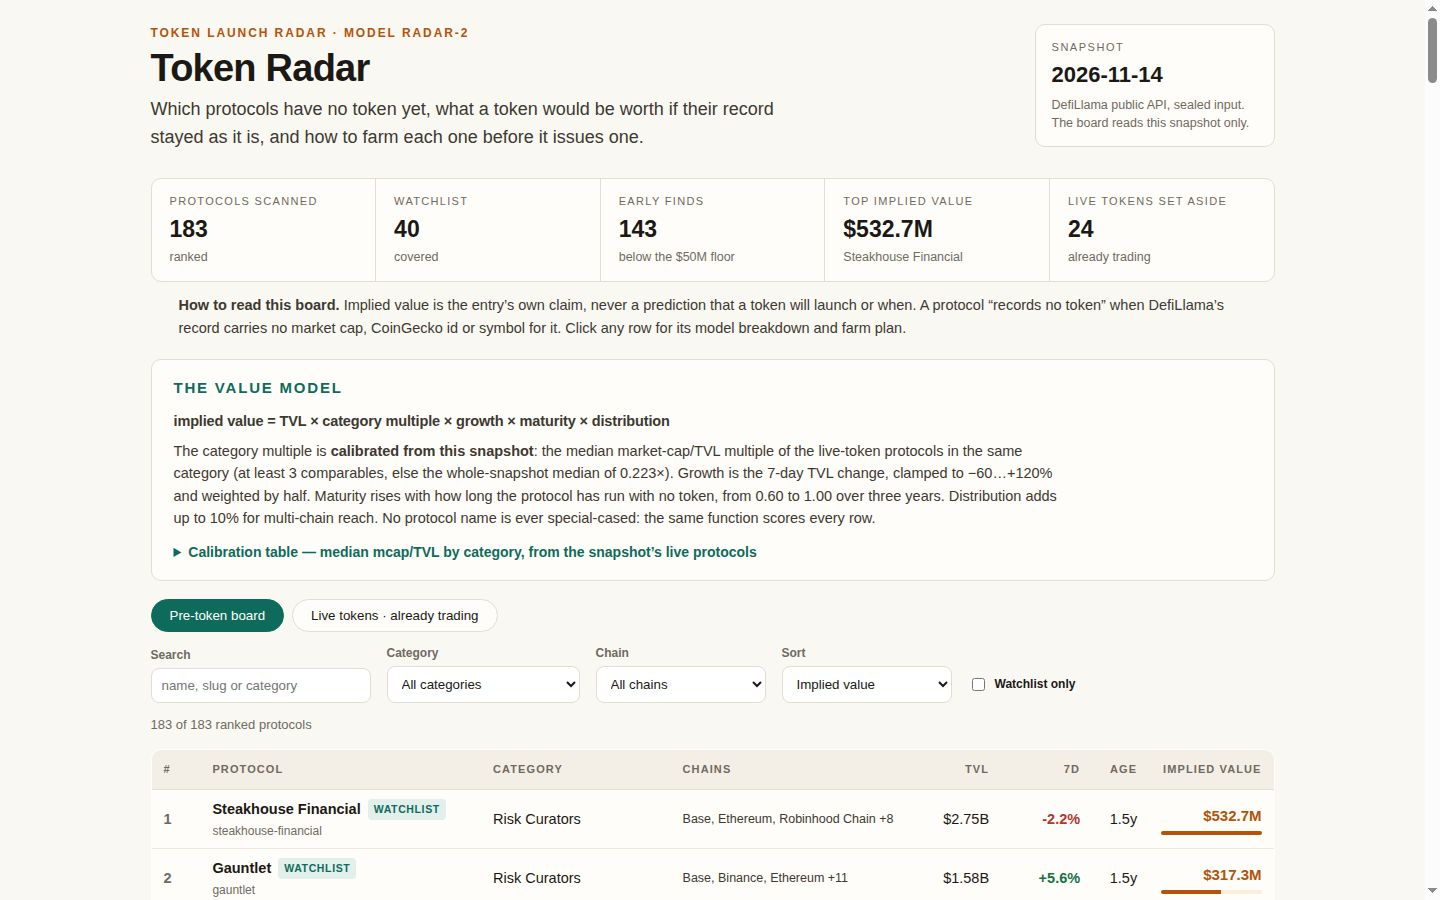
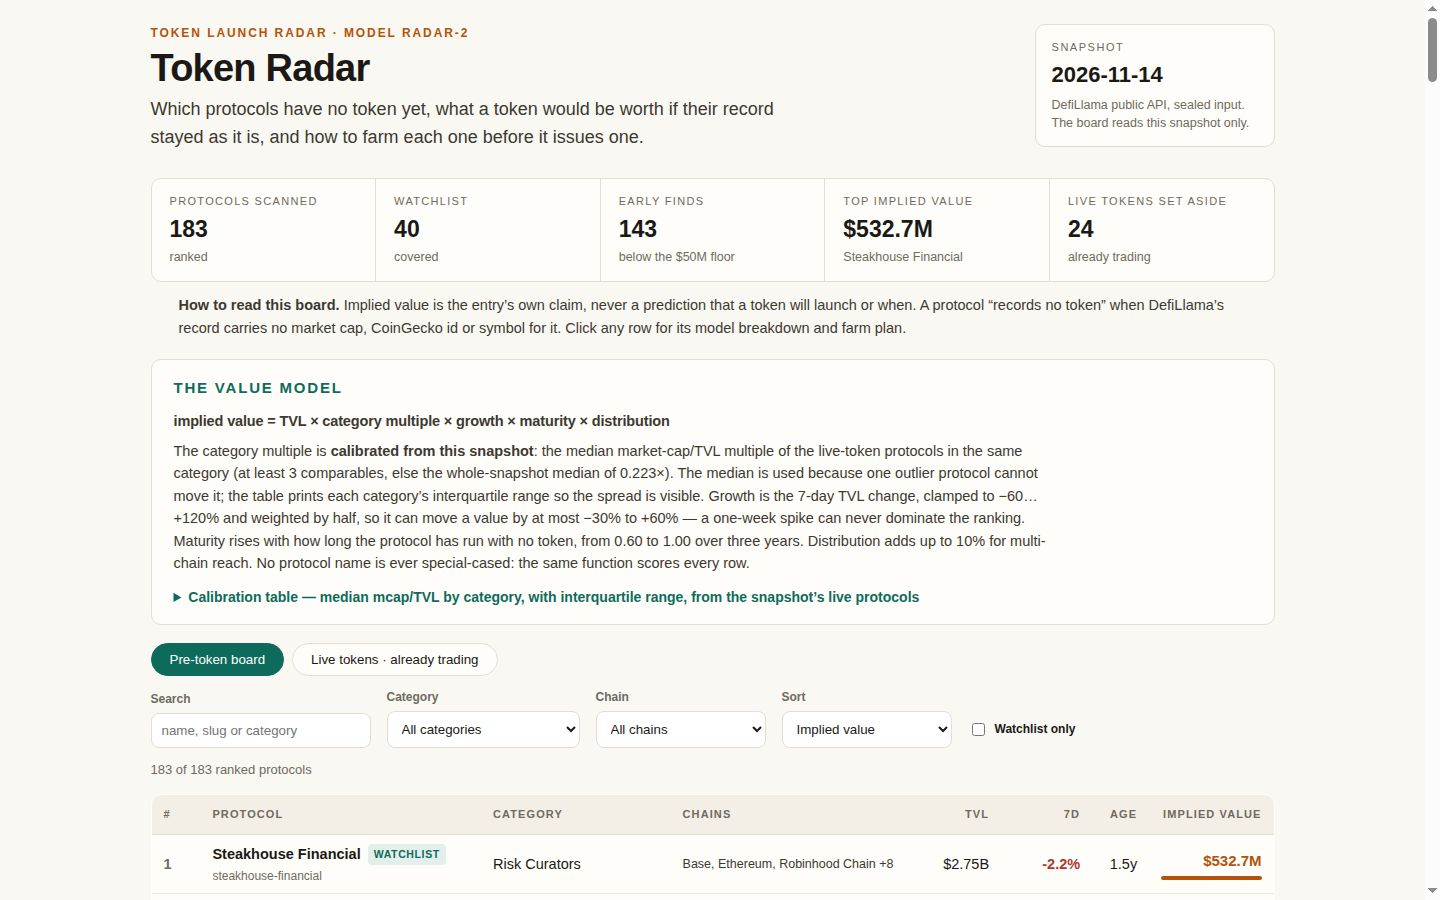
Review revision: calibration spread, farm-step qualification/risk/exit, USDD note (Qwen3-14B review 2026-11-17)

diff --git a/lib/model.ts b/lib/model.ts
@@ -8,7 +8,16 @@
 //    category (at least 3 live comparables, else the whole-snapshot median), and applies that. A
 //    lending protocol is priced like lending protocols trade, a DEX like DEXes trade. The multiples
 //    are computed from the snapshot at run time: no protocol name and no multiple is hardcoded, and
-//    the dashboard prints the calibration table so the reader can check it.
+//    the dashboard prints the calibration table so the reader can check it. The table also prints
+//    each category's interquartile range (p25–p75), because a median alone hides how wide a
+//    category's pricing is.
+//
+// Revised 2026-11-17 after a review by Qwen3-14B on a Kaggle T4: the review's applicable points
+// are in this revision — the calibration spread, the farm steps' qualification, risk and exit rules,
+// and the dashboard's USDD note. The formula is unchanged: growth stays linear and capped because
+// the snapshot carries only the 7-day change (no 30/90-day trend exists to use), and reach stays a
+// chain count because the snapshot records no holder or governance data. Both limits are stated on
+// the dashboard instead of filled in with invented data.
 //
 // 2. The board is honest about what is not a launch. A bridge, a liquid-staking receipt or a
 //    versioned pool (``Name V2``) is a product of a token that already trades, not a token that does
@@ -159,10 +168,12 @@ export interface LiveRow {
   multiple: number | null;
 }
 
-/** One calibrated multiple: the category, its median, and how many live protocols priced it. */
+/** One calibrated multiple: the category, its median, its interquartile range, and how many live protocols priced it. */
 export interface CalibrationRow {
   category: string;
   multiple: number;
+  p25: number;
+  p75: number;
   comps: number;
 }
 
@@ -178,6 +189,8 @@ export interface RadarData {
   early_size: number;
   live_size: number;
   overall_multiple: number;
+  overall_p25: number;
+  overall_p75: number;
   calibration: CalibrationRow[];
   rows: RadarRow[];
   live: LiveRow[];
@@ -203,6 +216,11 @@ function median(sorted: number[]): number {
   return sorted[Math.floor(sorted.length / 2)]!;
 }
 
+/** The q-quantile of a non-empty sorted array (q in [0, 1]). */
+function quantile(sorted: number[], q: number): number {
+  return sorted[Math.min(sorted.length - 1, Math.floor(q * sorted.length))]!;
+}
+
 /** A whole day count from `from` to `to`, clamped at zero; null when either date is absent or bad. */
 export function ageDays(asOf: string, listedAt: string | null): number | null {
   if (listedAt === null) return null;
@@ -216,7 +234,7 @@ export function ageDays(asOf: string, listedAt: string | null): number | null {
  * The calibration: the median market-cap/TVL multiple of the snapshot's live-token protocols, per
  * category and overall. Computed from the data at run time; nothing here is a hardcoded multiple.
  */
-export function calibrate(snapshot: Snapshot, model: ModelConstants): { byCategory: Map<string, { multiple: number; comps: number }>; overall: number; table: CalibrationRow[] } {
+export function calibrate(snapshot: Snapshot, model: ModelConstants): { byCategory: Map<string, { multiple: number; comps: number }>; overall: number; overallP25: number; overallP75: number; table: CalibrationRow[] } {
   const byCategory = new Map<string, number[]>();
   const all: number[] = [];
   for (const p of snapshot.protocols) {
@@ -231,6 +249,8 @@ export function calibrate(snapshot: Snapshot, model: ModelConstants): { byCatego
   }
   all.sort((a, b) => a - b);
   const overall = Math.min(model.multiple_cap, Math.max(model.multiple_floor, median(all)));
+  const overallP25 = round4(Math.min(model.multiple_cap, Math.max(model.multiple_floor, quantile(all, 0.25))));
+  const overallP75 = round4(Math.min(model.multiple_cap, Math.max(model.multiple_floor, quantile(all, 0.75))));
   const out = new Map<string, { multiple: number; comps: number }>();
   const table: CalibrationRow[] = [];
   for (const [c, list] of [...byCategory.entries()].sort((a, b) => b[1].length - a[1].length)) {
@@ -238,9 +258,9 @@ export function calibrate(snapshot: Snapshot, model: ModelConstants): { byCatego
     if (list.length < model.min_category_comps) continue;
     const m = Math.min(model.multiple_cap, Math.max(model.multiple_floor, median(list)));
     out.set(c, { multiple: m, comps: list.length });
-    table.push({ category: c, multiple: round4(m), comps: list.length });
+    table.push({ category: c, multiple: round4(m), p25: round4(quantile(list, 0.25)), p75: round4(quantile(list, 0.75)), comps: list.length });
   }
-  return { byCategory: out, overall, table };
+  return { byCategory: out, overall, overallP25, overallP75, table };
 }
 
 /** The three multipliers and the implied value one protocol gets under `model`. */
@@ -383,7 +403,8 @@ function holdDaysFor(age: number | null): number {
 function actionFor(p: SnapshotProtocol, capital: number, chain: string): string {
   const c = (p.category ?? '').toLowerCase();
   const name = p.name;
-  if (c.includes('lend') || c.includes('cdp') || c.includes('collateral')) return `Supply $${capital} of USDC to ${name} on ${chain} and keep the position open.`;
+  if (c.includes('cdp') || c.includes('collateral')) return `Deposit $${capital} of collateral on ${name} on ${chain} and mint its stable asset, keeping the position open.`;
+  if (c.includes('lend')) return `Supply $${capital} of USDC to ${name} on ${chain} and keep the position open.`;
   if (c.includes('dex') || c.includes('leveraged farm')) return `Provide $${capital} of liquidity to ${name}'s main pool on ${chain} and keep the position open.`;
   if (c.includes('perpetual') || c.includes('derivative') || c.includes('basis trading')) return `Deposit $${capital} of USDC as margin on ${name} and open one small hedge.`;
   if (c.includes('yield aggregator') || c.includes('curator') || c.includes('allocator') || c.includes('risk curators') || c.includes('onchain capital')) return `Deposit $${capital} into a ${name} vault on ${chain} and keep the shares.`;
@@ -431,22 +452,22 @@ export function farmSteps(p: SnapshotProtocol, age: number | null): FarmStep[] {
       time: '15 minutes to set up',
     },
     {
-      text: weeklyFor(p),
+      text: `${weeklyFor(p)} A qualifying action is one on-chain transaction that succeeds and shows as confirmed in a block explorer.`,
       cost: `${gas} a week`,
       time: '10 minutes a week',
     },
     {
-      text: `Hold the position for at least ${hold} days so the activity is counted in more than one snapshot.`,
+      text: `Hold the position for at least ${hold} days so the activity is counted in more than one snapshot. Exit rule: if the protocol's TVL falls by half or its contracts are exploited, withdraw first and stop farming it.`,
       cost: `the $${capital} stays in the position`,
       time: `${hold} days`,
     },
     {
-      text: `Before you withdraw, open the protocol's own points or rewards page and claim only from the link it publishes.`,
+      text: `Before you withdraw, open the protocol's own points or rewards page and claim only from the link it publishes. Check the protocol's own security or audit page first; never pay to claim, and never sign a transaction you do not understand.`,
       cost: 'no fee to check, and never pay to claim',
       time: '10 minutes',
     },
     {
-      text: `Write the wallet, the dates and every transaction in a farm log so you can repeat the position or unwind it.`,
+      text: `Write the date, action, chain, amount, gas paid and result of every transaction in a farm log, so you can repeat the position or unwind it.`,
       cost: 'nothing but the log',
       time: '5 minutes',
     },
@@ -510,6 +531,8 @@ export function buildRadar(snapshot: Snapshot, model: ModelConstants = MODEL): {
     early_size: early,
     live_size: live.length,
     overall_multiple: round4(calibration.overall),
+    overall_p25: calibration.overallP25,
+    overall_p75: calibration.overallP75,
     calibration: calibration.table,
     rows: board.map((r) => ({ ...radarRow(r), watchlist: snapshot.watchlist.includes(r.slug) })),
     live,

diff --git a/dashboard/index.html b/dashboard/index.html
@@ -34,12 +34,15 @@
     <p class="formula">implied value = TVL &times; category multiple &times; growth &times; maturity &times; distribution</p>
     <p>The category multiple is <strong>calibrated from this snapshot</strong>: the median market-cap/TVL
     multiple of the live-token protocols in the same category (at least 3 comparables, else the
-    whole-snapshot median of <span id="overallMult">—</span>). Growth is the 7-day TVL change, clamped
-    to &minus;60&hellip;+120% and weighted by half. Maturity rises with how long the protocol has run
-    with no token, from 0.60 to 1.00 over three years. Distribution adds up to 10% for multi-chain reach.
-    No protocol name is ever special-cased: the same function scores every row.</p>
+    whole-snapshot median of <span id="overallMult">—</span>). The median is used because one outlier
+    protocol cannot move it; the table prints each category&rsquo;s interquartile range so the spread is
+    visible. Growth is the 7-day TVL change, clamped to &minus;60&hellip;+120% and weighted by half, so
+    it can move a value by at most &minus;30% to +60% — a one-week spike can never dominate the ranking.
+    Maturity rises with how long the protocol has run with no token, from 0.60 to 1.00 over three years.
+    Distribution adds up to 10% for multi-chain reach. No protocol name is ever special-cased: the same
+    function scores every row.</p>
     <details>
-      <summary>Calibration table — median mcap/TVL by category, from the snapshot&rsquo;s live protocols</summary>
+      <summary>Calibration table — median mcap/TVL by category, with interquartile range, from the snapshot&rsquo;s live protocols</summary>
       <table class="calib" id="calib"></table>
     </details>
   </section>
@@ -101,8 +104,19 @@
       exchanges are not ranked: each is a product of a token that already trades, not a token that
       does not exist yet. The snapshot&rsquo;s other protocols are the early ones the radar exists to find.</li>
       <li>Farm plans are generated from each protocol&rsquo;s own record — category, main chain, TVL,
-      age — with the capital, gas and hold time the plan needs. They are a starting point, not
+      age — with the capital, gas and hold time the plan needs. Every plan states what counts as a
+      qualifying action, an exit rule, and a risk check before claiming. They are a starting point, not
       financial advice; never pay to claim an airdrop, and claim only from the protocol&rsquo;s own page.</li>
+      <li>Reach counts chains only. It says where a protocol runs, not who holds its token — the
+      snapshot records no holder or governance data, so no concentration claim is made.</li>
+      <li>One watchlist protocol, USDD, is a stablecoin: its TVL is the outstanding supply, not
+      user-locked value in the DeFi sense. It stays on the board because the competition&rsquo;s
+      watchlist requires every slug to be covered; the ranking follows the house&rsquo;s list, not a claim
+      that USDD is a protocol awaiting a token.</li>
+      <li>Reviewed 2026-11-17 by Qwen3-14B on a Kaggle T4. The applicable points — the calibration
+      spread, the growth cap, the reach limit, the USDD note and risk-aware farm plans — are in this
+      revision. Points that need data the snapshot does not carry (holder concentration, 30/90-day
+      trends) are stated here as limits, not invented.</li>
       <li>Data: DefiLlama <span id="source">—</span>. Implied values are this entry&rsquo;s model output,
       computed from the sealed snapshot alone.</li>
     </ul>

diff --git a/dashboard/app.js b/dashboard/app.js
@@ -39,11 +39,11 @@
     '<div><dt>Live tokens set aside</dt><dd>' + R.live_size + ' <small>already trading</small></dd></div>';
 
   /* Calibration table */
-  $('calib').innerHTML = '<tr><th>Category</th><th>Multiple</th><th>Comparables</th></tr>' +
+  $('calib').innerHTML = '<tr><th>Category</th><th>Multiple</th><th>Spread (p25–p75)</th><th>Comparables</th></tr>' +
     R.calibration.map(function (c) {
-      return '<tr><td>' + esc(c.category) + '</td><td>' + c.multiple.toFixed(3) + '×</td><td>' + c.comps + ' live protocols</td></tr>';
+      return '<tr><td>' + esc(c.category) + '</td><td>' + c.multiple.toFixed(3) + '×</td><td>' + c.p25.toFixed(3) + '–' + c.p75.toFixed(3) + '×</td><td>' + c.comps + ' live protocols</td></tr>';
     }).join('') +
-    '<tr><td>Overall fallback (fewer than 3 comparables)</td><td>' + R.overall_multiple.toFixed(3) + '×</td><td>whole snapshot</td></tr>';
+    '<tr><td>Overall fallback (fewer than 3 comparables)</td><td>' + R.overall_multiple.toFixed(3) + '×</td><td>' + R.overall_p25.toFixed(3) + '–' + R.overall_p75.toFixed(3) + '×</td><td>whole snapshot</td></tr>';
 
   /* Filters */
   var cats = {}, chains = {};
